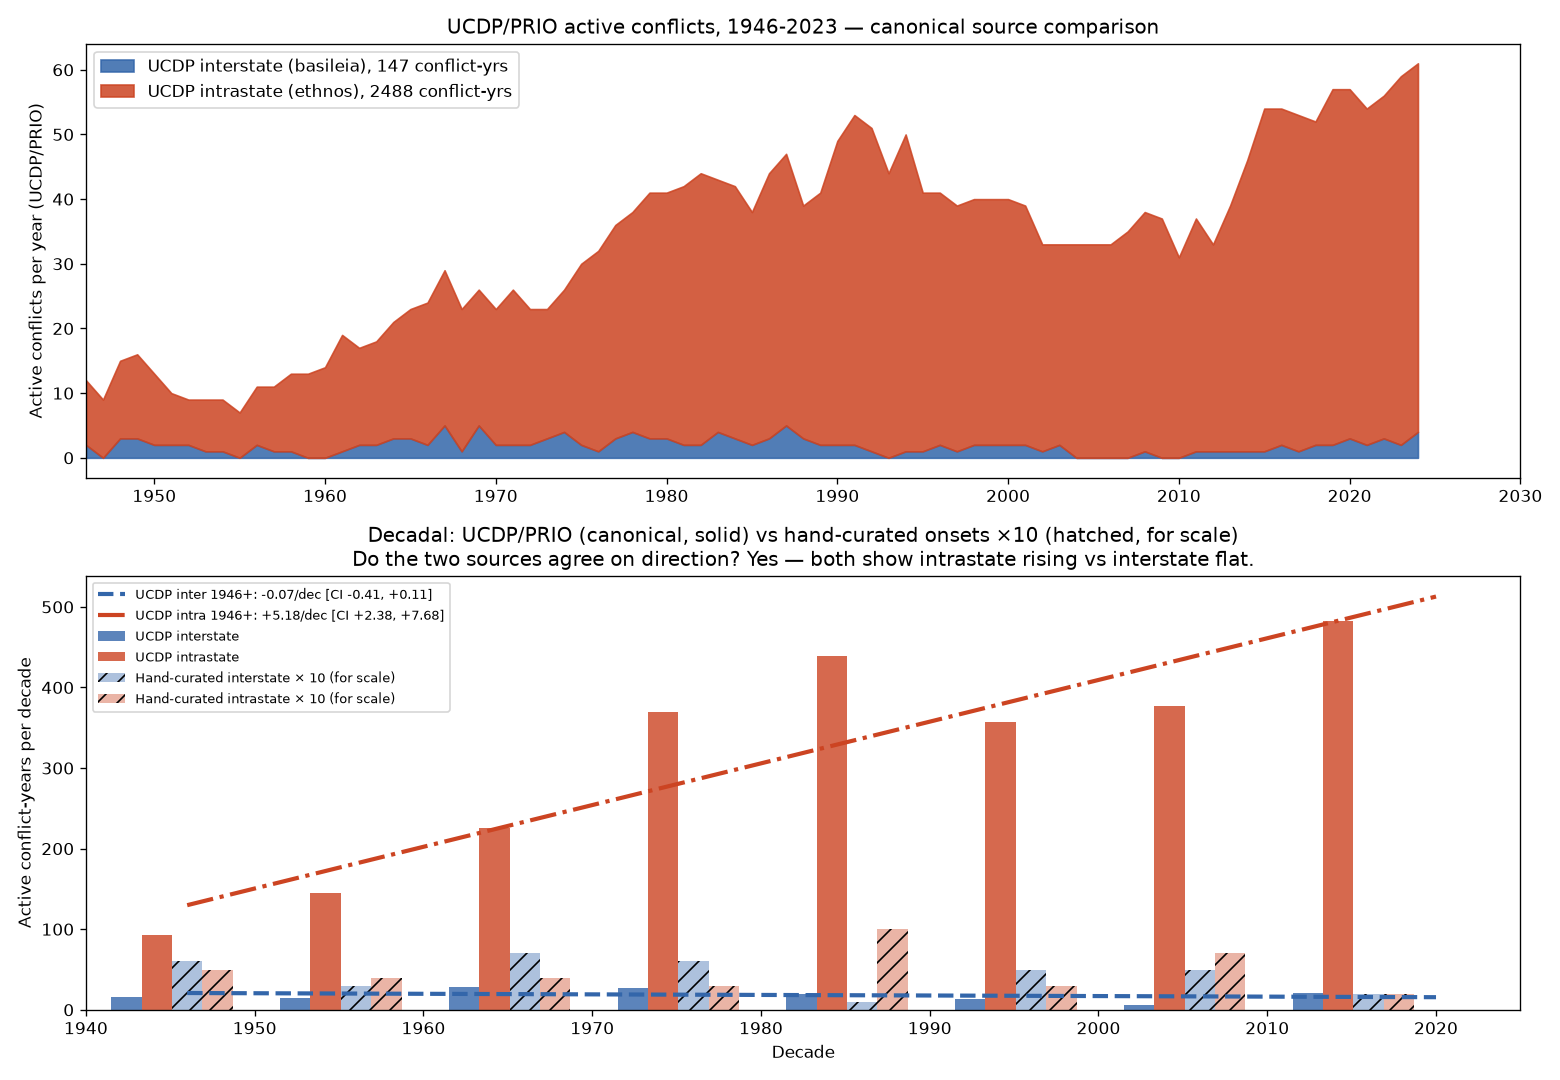
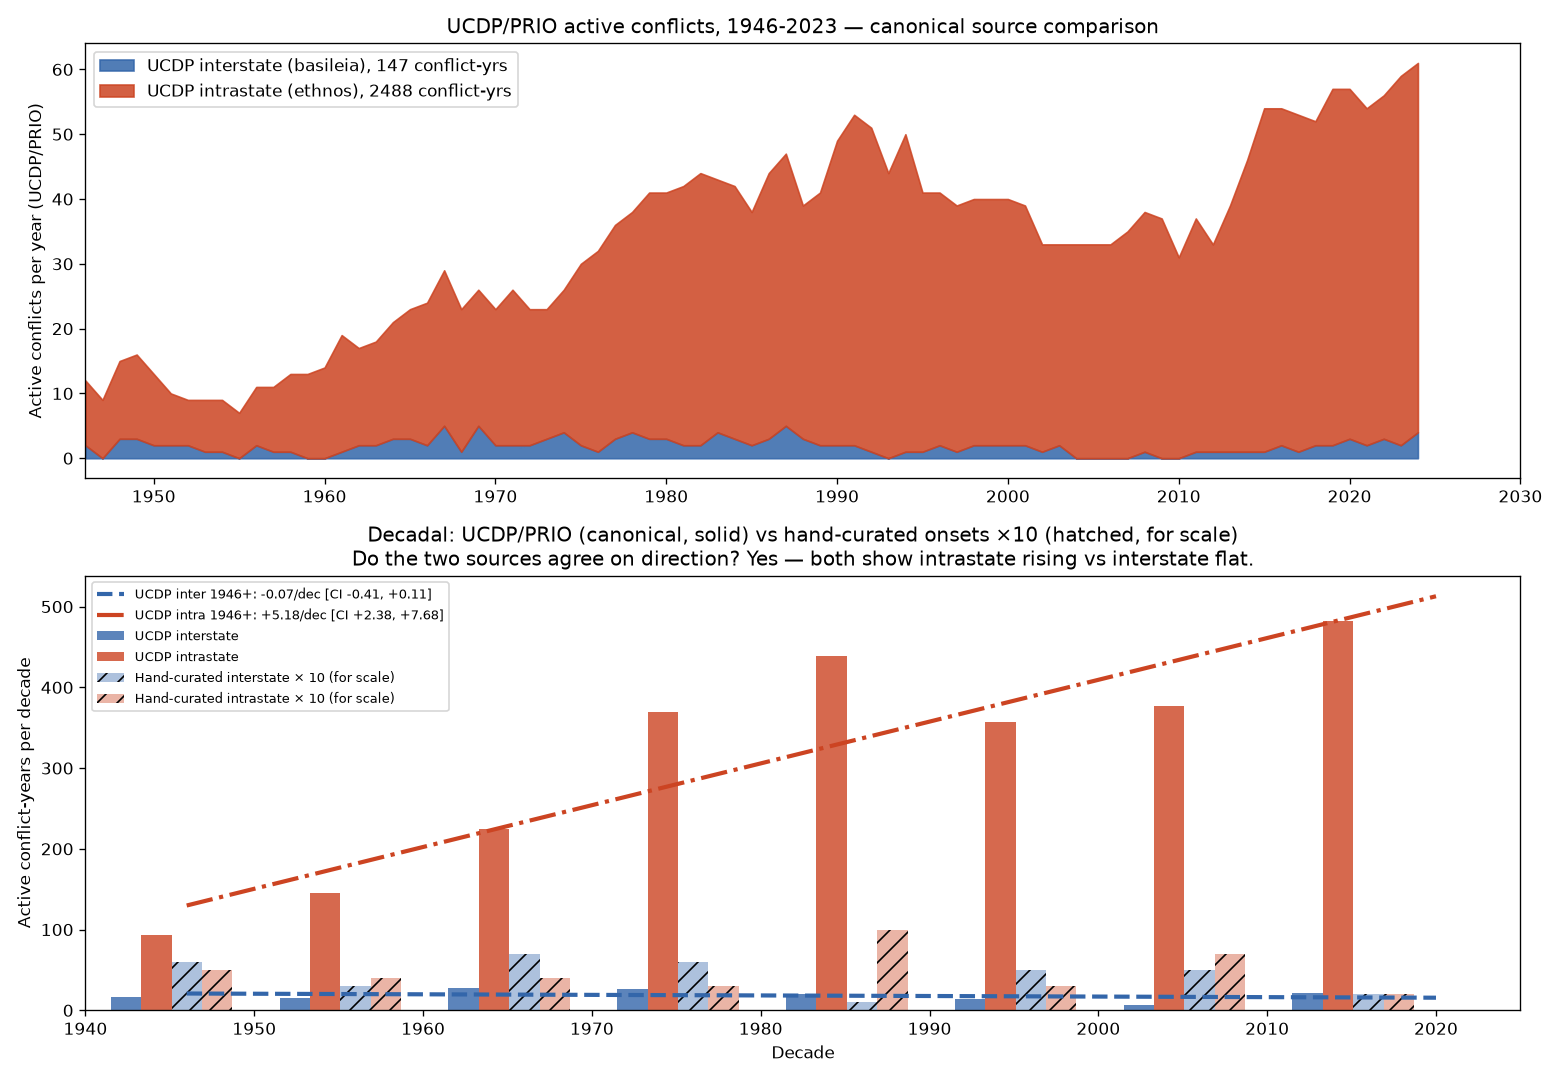
Add UCDP/PRIO parallel war-deaths series and cross-source check on the wars x famines pair
New load_yearly_war_deaths_ucdp() in correlate_events.py: battle-deaths floor built from UCDP/PRIO intensity bands (lower bounds 25 minor / 1000 war per conflict-year), NaN before 1946 and past last coverage, same discipline as every other loader. The hand-curated wars.csv headline series is unchanged.

ucdp_compare.py gains a weekly-recomputed section: curated full window r=+0.450 (p=1.5e-07, n=124, 1900-2023); curated restricted to 1946+ r=+0.126 (p=0.27, n=78); UCDP floor 1946+ r=+0.138 (p=0.23, n=78). The two sources AGREE on the shared window and both are null there: the headline's significance is carried by 1900-1945, which UCDP does not cover. Weight-sensitivity checked (r=+0.11 to +0.14 across deaths weightings; pure conflict count r=-0.007).

README: one subsection under Bottom line reporting the table, with a #review-pending marker comment. meta_analysis.py re-run confirms the 45-cell matrix is unchanged (still exactly 1 FDR-significant pair at +0.450).

REVIEW BEFORE PUSH: weekly_update.sh auto-pushes main. Justin should review this commit before the next weekly run publishes it.

diff --git a/ucdp_compare.py b/ucdp_compare.py
@@ -10,6 +10,9 @@ This script:
   2. Computes UCDP-based trends (active conflicts / decade) per era
   3. Compares the UCDP intrastate vs interstate trends against the hand-curated
      wars.csv basileia/ethnos split
+  4. Re-runs the headline wars x famines pair with the UCDP battle-deaths
+     floor standing in for the hand-curated deaths series (cross-source check;
+     the curated series stays the headline)
 
 If the two sources agree on the direction (intrastate rising, interstate flat),
 that's cross-source validation of the headline finding.
@@ -17,16 +20,97 @@ that's cross-source validation of the headline finding.
 Writes figures/30_ucdp_canonical_compare.png.
 """
 import argparse
+import datetime as _dt
 from pathlib import Path
 
 import matplotlib.pyplot as plt
 import numpy as np
 import pandas as pd
+from scipy import stats
 
 from correlate_events import (
     load_yearly_ucdp_conflicts,
     load_yearly_wars_split,
+    load_yearly_war_deaths_active,
+    load_yearly_war_deaths_ucdp,
+    load_yearly_famine_deaths_wpf,
 )
+from detection_regimes import REGIMES, piecewise_detrend
+
+# Last COMPLETE calendar year, same rule as meta_analysis.py. Loaders NaN
+# anything past each source's real coverage, so this only sets the window.
+END_YEAR = _dt.date.today().year - 1
+
+
+def _detrended_pair(a: pd.Series, key_a: str, b: pd.Series, key_b: str,
+                     year_min: int = None):
+    """Regime-detrend both series, pairwise-complete mask, Pearson + Spearman.
+
+    Mirrors the meta_analysis.py matrix methodology exactly. year_min, when
+    given, restricts the PAIRING (not the detrend fit) to years >= year_min,
+    which is how the window-matched curated number is computed.
+    """
+    a_d = piecewise_detrend(a.astype(float), REGIMES.get(key_a, []))
+    b_d = piecewise_detrend(b.astype(float), REGIMES.get(key_b, []))
+    a_d, b_d = a_d.align(b_d, join="inner")
+    mask = ~(a_d.isna() | b_d.isna())
+    if year_min is not None:
+        mask &= a_d.index >= year_min
+    if mask.sum() < 5:
+        return None
+    r, p = stats.pearsonr(a_d[mask], b_d[mask])
+    rho, p_s = stats.spearmanr(a_d[mask], b_d[mask])
+    return {"r": r, "p": p, "rho": rho, "p_s": p_s, "n": int(mask.sum()),
+            "y0": int(a_d.index[mask].min()), "y1": int(a_d.index[mask].max())}
+
+
+def run_wars_famines_cross_source(args):
+    """Section 4: the one FDR-surviving pair, recomputed on the canonical source.
+
+    Three numbers, same methodology (log10 deaths, regime detrend, pairwise
+    Pearson): (1) curated wars.csv on its full window (the headline), (2) the
+    same curated series restricted to 1946+, isolating the window effect, and
+    (3) the UCDP/PRIO battle-deaths floor 1946+, isolating the source effect.
+    """
+    print("\nWars x famines, cross-source check (UCDP floor vs hand-curated):")
+    fam = load_yearly_famine_deaths_wpf(args.famines_wpf_csv, 1900, END_YEAR,
+                                          log10_transform=True)
+    cur = load_yearly_war_deaths_active(args.wars_csv, 1900, END_YEAR,
+                                          log10_transform=True)
+    # Same 1900+ window as the others: the loader NaNs 1900-1945 (pre-UCDP),
+    # so those years drop out of the pair instead of reading as zeros.
+    ucdp = load_yearly_war_deaths_ucdp(args.ucdp_csv, 1900, END_YEAR,
+                                         log10_transform=True)
+
+    rows = [
+        ("curated wars.csv, full window (headline)",
+         _detrended_pair(cur, "wars_global", fam, "famines")),
+        ("curated wars.csv, restricted to 1946+",
+         _detrended_pair(cur, "wars_global", fam, "famines", year_min=1946)),
+        ("UCDP/PRIO deaths floor, 1946+",
+         _detrended_pair(ucdp, "wars_global", fam, "famines")),
+    ]
+    for label, res in rows:
+        if res is None:
+            print(f"  {label:<44} insufficient overlap")
+            continue
+        print(f"  {label:<44} r = {res['r']:+.3f}  p = {res['p']:.2e}  "
+              f"rho = {res['rho']:+.3f}  (n = {res['n']}, {res['y0']}-{res['y1']})")
+
+    # Weighting sensitivity: the floor weights (25 / 1000) are the only free
+    # choice in the UCDP series. Show the pair under alternate weightings so
+    # nobody has to wonder whether the number is an artifact of that choice.
+    print("  UCDP weighting sensitivity (minor_floor / war_floor):")
+    for mf, wf in ((25.0, 1000.0), (158.0, 1000.0), (25.0, 5000.0), (1.0, 1.0)):
+        u = load_yearly_war_deaths_ucdp(args.ucdp_csv, 1900, END_YEAR,
+                                          log10_transform=True,
+                                          minor_floor=mf, war_floor=wf)
+        res = _detrended_pair(u, "wars_global", fam, "famines")
+        note = " (= active-conflict count)" if mf == wf == 1.0 else ""
+        if res:
+            print(f"    {mf:>6.0f} / {wf:<6.0f} r = {res['r']:+.3f}  "
+                  f"p = {res['p']:.2e}{note}")
+    return rows
 
 
 def fit_decadal_trend(decades, counts, era_start, end=2020):
@@ -52,6 +136,7 @@ def main():
     ap = argparse.ArgumentParser(description=__doc__)
     ap.add_argument("--ucdp-csv", default="data/ucdp_prio_conflicts.csv")
     ap.add_argument("--wars-csv", default="data/wars.csv")
+    ap.add_argument("--famines-wpf-csv", default="data/famine_deaths_by_year.csv")
     ap.add_argument("--out", default="figures")
     args = ap.parse_args()
     out = Path(args.out); out.mkdir(parents=True, exist_ok=True)
@@ -91,6 +176,8 @@ def main():
             print(f"  {label:<25}  "
                   f"{fi['slope']:+7.2f}/dec [{fi['ci_lo']:+.2f}, {fi['ci_hi']:+.2f}]   "
                   f"{fn['slope']:+7.2f}/dec [{fn['ci_lo']:+.2f}, {fn['ci_hi']:+.2f}]")
+
+    run_wars_famines_cross_source(args)
 
     # ---- Figure ----
     fig, axes = plt.subplots(2, 1, figsize=(13, 9))

diff --git a/correlate_events.py b/correlate_events.py
@@ -183,6 +183,41 @@ def load_yearly_ucdp_conflicts(ucdp_csv: str, year_lo=1946, year_hi=2025,
     return s
 
 
+def load_yearly_war_deaths_ucdp(ucdp_csv: str, year_lo=1946, year_hi=2025,
+                                 log10_transform: bool = False,
+                                 minor_floor: float = 25.0,
+                                 war_floor: float = 1000.0) -> pd.Series:
+    """Yearly battle-deaths FLOOR from UCDP/PRIO conflict-years (canonical, 1946+).
+
+    The UCDP/PRIO Armed Conflict Dataset codes each conflict-year's intensity
+    band, not its death count: intensity_level 1 = minor (25-999 battle deaths
+    that year), 2 = war (>= 1000). Summing each band's LOWER BOUND across the
+    conflicts active in a year gives a conservative annual battle-deaths floor.
+    This is a proxy that moves with both the number of active conflicts and the
+    minor/war mix, not a measured toll; it undercounts catastrophic years
+    (Korea, Vietnam) far more than quiet ones, which compresses the top of the
+    series even before the log10.
+
+    Coverage discipline matches the other loaders, extended to the leading
+    edge: UCDP starts in 1946, so years before its first observation are NaN
+    (unknown), not zero, and years past its last observation are NaN via
+    _nan_beyond_coverage. This series is a canonical-source cross-check; the
+    hand-curated wars.csv remains the headline series.
+    """
+    df = pd.read_csv(ucdp_csv)
+    floor = np.where(df["intensity_level"] >= 2, war_floor, minor_floor)
+    yearly = pd.Series(floor, index=df["year"]).groupby(level=0).sum()
+    s = yearly.reindex(range(year_lo, year_hi + 1), fill_value=0).astype(float)
+    s.loc[s.index < int(yearly.index.min())] = np.nan
+    s = _nan_beyond_coverage(s, yearly.index)
+    if log10_transform:
+        s = np.log10(s + 1.0)
+        s.name = "log10_ucdp_war_deaths_floor"
+    else:
+        s.name = "ucdp_war_deaths_floor"
+    return s
+
+
 def load_yearly_war_deaths_split(wars_csv: str, war_type: str,
                                     year_lo=1400, year_hi=2025,
                                     log10_transform: bool = False) -> pd.Series:

diff --git a/README.md b/README.md
@@ -63,6 +63,20 @@ This is the classic mechanism — wars cause famines (WWII-era Bengal, Greek, Vi
 
  On the window: each series is now truncated to the coverage its source actually has, and years beyond that are NaN rather than zero. Previously the loaders reindexed onto a fixed 1900–2025 window with `fill_value=0`, so a catalog whose curation stopped early (famine deaths genuinely end in 2023) contributed fabricated observations reading "no famine anywhere on earth." Removing them raised this correlation from +0.434 to +0.450, which is the expected direction: the invented zeros were diluting it. The matrix is pairwise-complete, so each pair uses only the years both of its series actually cover.
 
+### Cross-source check: the same pair on canonical UCDP/PRIO (1946–2023)
+
+<!-- #review-pending: subsection + load_yearly_war_deaths_ucdp() added 2026-08-01 by Claude; Justin should review before the next weekly push publishes it -->
+
+The headline pair above is computed from the hand-curated `data/wars.csv` (frozen catalog, 1900–2023). The weekly refresh also pulls the canonical UCDP/PRIO Armed Conflict Dataset (v25.1, coverage 1946–2024), which until now fed only the trend comparison, not the correlation matrix. `load_yearly_war_deaths_ucdp()` in `correlate_events.py` now builds a parallel deaths series from it. UCDP/PRIO codes each conflict-year's intensity band rather than a death count (minor = 25–999 battle deaths that year, war = 1,000+), so the series sums each band's lower bound (25 and 1,000) across the conflicts active in a year: a conservative battle-deaths floor, not a measured toll. Same coverage discipline as every other series: NaN before 1946 and past the last UCDP year, never fabricated zeros. `ucdp_compare.py` recomputes this table on every weekly run. The curated series remains the headline; nothing in the matrix above changed.
+
+| Wars series (log10 deaths, regime-detrended, × WPF famine deaths log10) | r | raw p | n | years |
+|---|---|---|---|---|
+| Hand-curated `wars.csv`, full window (the headline) | +0.450 | 1.5e-07 | 124 | 1900–2023 |
+| Hand-curated `wars.csv`, restricted to 1946+ | +0.126 | 0.27 | 78 | 1946–2023 |
+| UCDP/PRIO battle-deaths floor | +0.138 | 0.23 | 78 | 1946–2023 |
+
+Read plainly: on the 1946–2023 window the canonical source and the curated catalog agree with each other (+0.138 vs +0.126), and both are null. UCDP does not contradict the +0.450 headline; it cannot see the years that carry it. The headline's significance comes almost entirely from 1900–1945, which only the curated catalog covers, and a coupling of headline size cannot be hiding in the post-war data: at n = 78, a true r near +0.45 would be detected with near-certainty, and neither source shows anything close. This sharpens what the sensitivity and wavelet sections already indicated: the wars → famines coupling is real but lives in the 1908–1945 war-famine clustering, and in the post-war era it is not detectable by either source. The UCDP number is not an artifact of the floor weights: alternate deaths weightings give r = +0.11 to +0.14, while collapsing to an unweighted active-conflict count gives r = −0.007 (a different quantity, counting conflicts rather than approximating deaths).
+
  Separately, on the event-onset series (not part of the 45-cell death-series matrix), the strongest raw results are famines × X1+ flares r = +0.31 p = 0.027 detrended and famines lag-1y vs quakes p = 0.005; neither survives correction for the test grid size. Daily-window tests on Israel events × {global M≥7, Levant M≥4, X1+ flares} sit at 0.6×–1.4× of chance, none significant.
 
 | Topic pair | Headline result | Raw p | Survives Bonferroni? |
